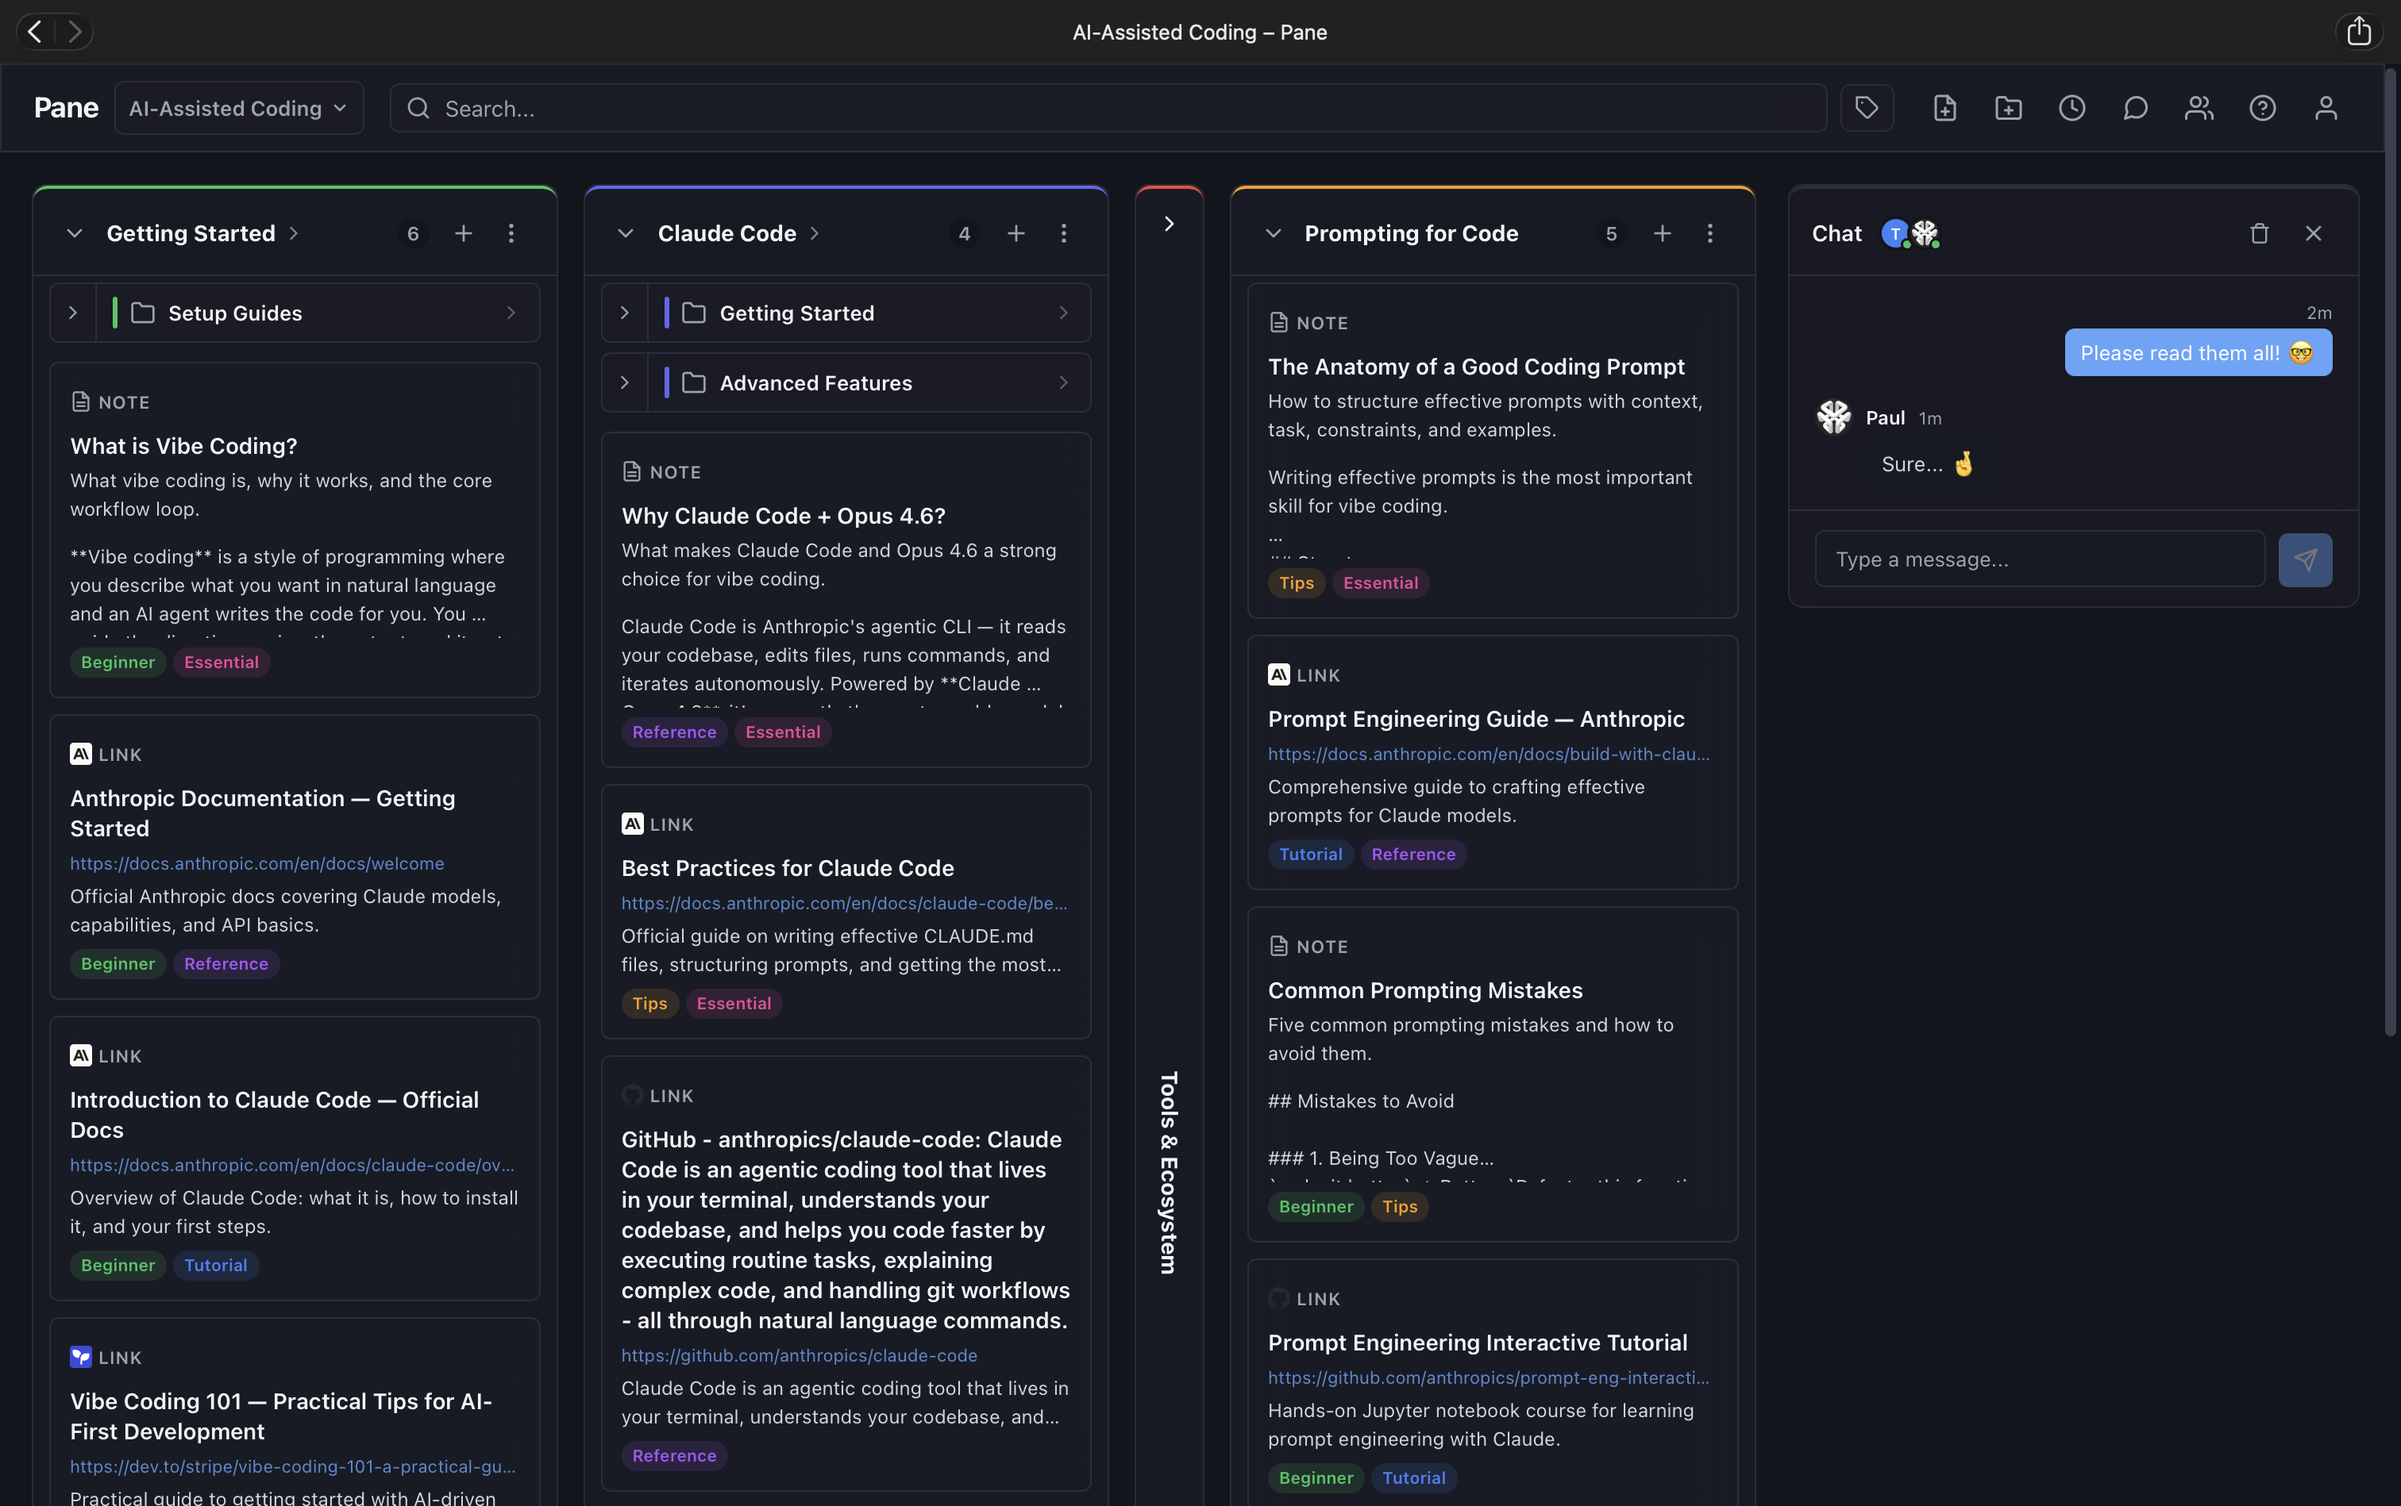
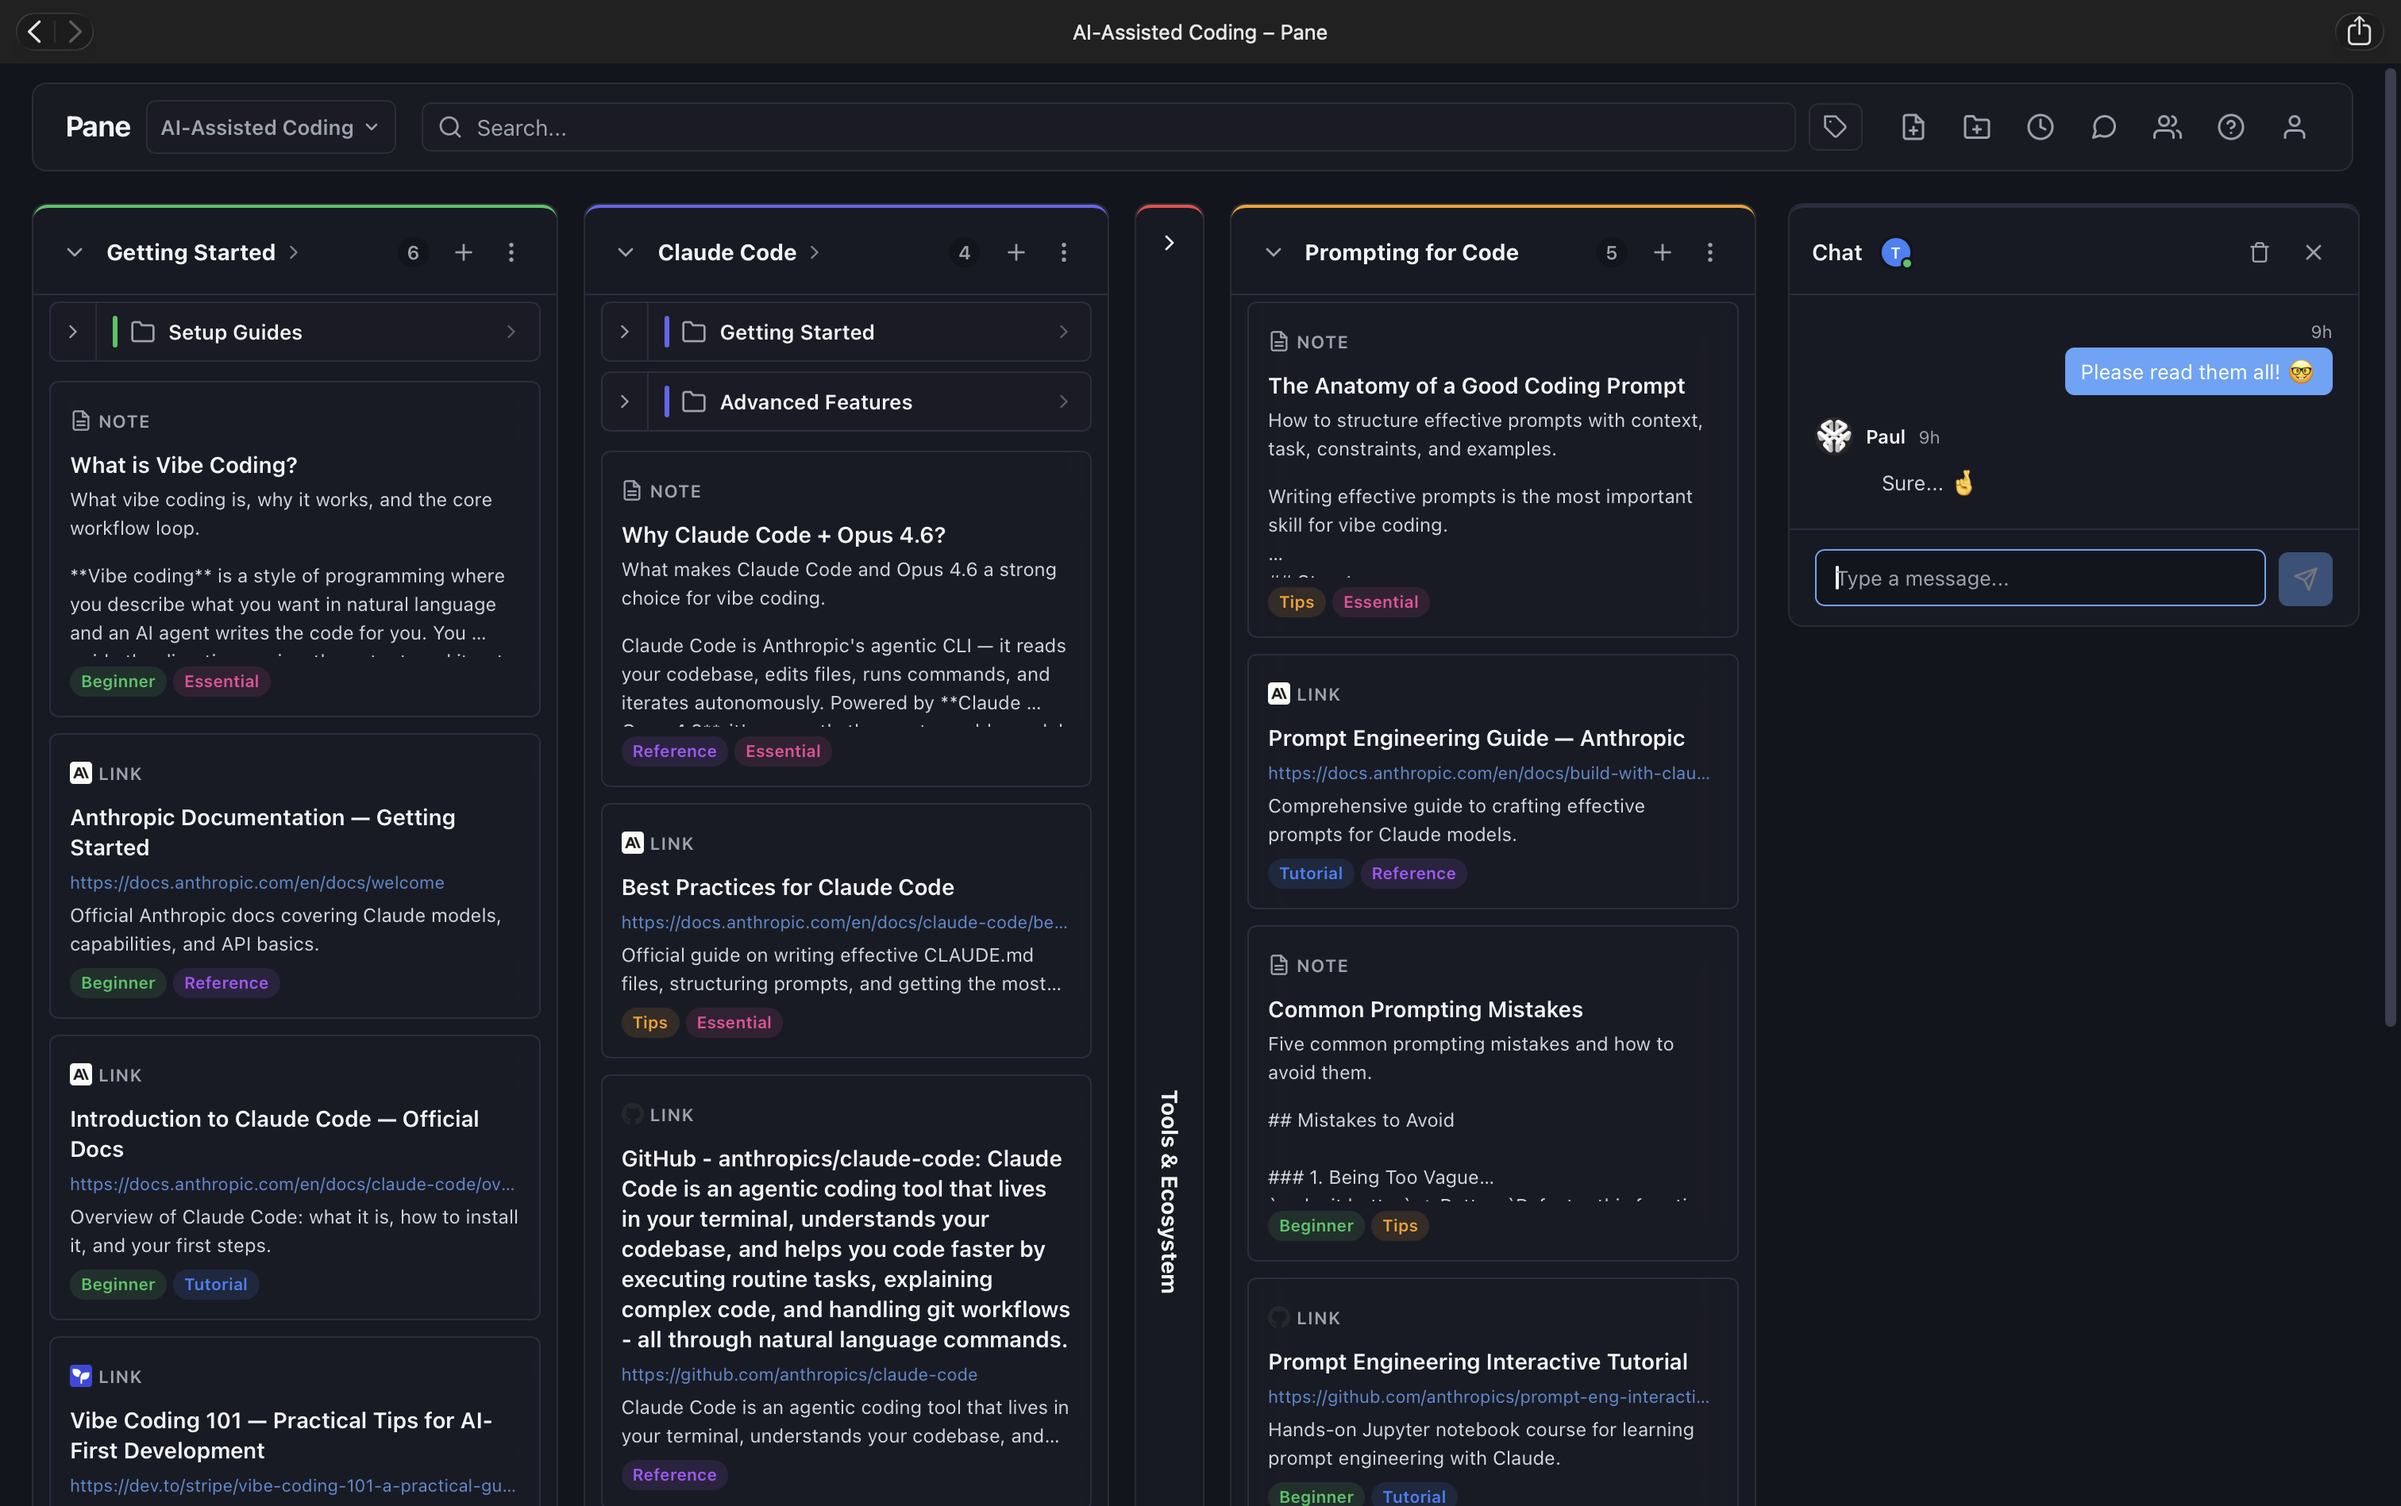
Update docs for browser notifications, missing utilities, and screenshot

diff --git a/src/lib/components/HelpPanel.svelte b/src/lib/components/HelpPanel.svelte
@@ -149,6 +149,7 @@
 						<li>Leave a shared space anytime from the dashboard</li>
 						<li><strong>Real-time chat</strong> is available in shared spaces — the chat panel appears as a column alongside the board on desktop, or as a full-screen overlay on mobile</li>
 						<li><strong>Presence indicators</strong> show which users are currently online in a shared space</li>
+						<li><strong>Browser notifications</strong> alert you to new messages and shares when the tab is in the background</li>
 					</ul>
 				{:else if activeSection === 'drag-drop'}
 					<ul>

diff --git a/CLAUDE.md b/CLAUDE.md
@@ -30,7 +30,7 @@ No test framework is configured. Use `pnpm check` to validate types before commi
 ### Data flow
 
 ```
-hooks.server.ts (migration + auth middleware + session cleanup)
+hooks.server.ts (migration + auth middleware + session cleanup + rate limiting)
   → +layout.server.ts (pass user to all pages)
   → /s/[space]/+layout.server.ts (validate space ownership or shared access)
   → /s/[space]/+page.server.ts (SSR load categories+items+tags from user DB)
@@ -102,8 +102,8 @@ Users can share spaces with others by email (read-only or read-write).
 - **Shared space URLs**: `/s/{spaceSlug}?owner={ownerId}` — the `owner` param tells the server whose DB to query
 - **Read-only enforcement**: Server returns 403 for non-GET requests on read-only shares. Client hides add/edit/delete buttons and disables DnD via `isReadonly` flag.
 - **SpaceSharingOverlay** — Accessible from Toolbar "Share" button (owner only). Share by username (with autocomplete) or email. Add/remove shares, change permissions.
-- **Real-time notifications** — SSE via `GET /api/events/user` (`$lib/server/events.ts`). `emitToUser(userId, event)` broadcasts share events. Dashboard auto-refreshes.
-- **Real-time chat** — `GET/POST/DELETE /api/chat` for space-scoped messaging. `GET /api/chat/presence` for online user tracking. Messages broadcast via SSE. 2000-char limit, 50-message pagination. Owner can clear history.
+- **Real-time notifications** — SSE via `GET /api/events/user` (`$lib/server/events.ts`). `emitToUser(userId, event)` broadcasts share events. Dashboard auto-refreshes. **Browser notifications** (`$lib/utils/notifications.ts`) show desktop alerts for chat messages and space shares when the tab is hidden (requires user permission).
+- **Real-time chat** — `GET/POST/DELETE /api/chat` for space-scoped messaging. `GET /api/chat/presence` for online user tracking. Space-scoped SSE via `GET /api/events?space={slug}&owner={id}` for real-time message delivery. 2000-char limit, 50-message pagination. Owner can clear history.
 - **Privacy** — `show_email` column on users table (default 0). Toggle in UserOverlay. `GET/PUT /api/preferences`.
 
 ### User Avatars
@@ -153,6 +153,8 @@ Documents stored at `storage/{userId}/{space-slug}/{category-slug}/{uuid}.{ext}`
 - **`$lib/utils/api.ts`** — Typed fetch wrapper (`api<T>(url, options)`) used by the board store for all mutations. Parses JSON error bodies automatically.
 - **`$lib/utils/slugify.ts`** — Wrapper around `slugify` library for URL-safe slugs.
 - **`$lib/utils/folder-drop.ts`** — HTML5 folder drag-and-drop. Uses `webkitGetAsEntry()` for recursive directory traversal. Returns `FolderStructure` with files and subfolders.
+- **`$lib/utils/webloc.ts`** — Extracts URLs from macOS `.webloc` files (XML and binary plist formats). Used during drag-and-drop to convert `.webloc` files to link items.
+- **`$lib/utils/notifications.ts`** — Browser Notification API wrapper. Shows desktop notifications for chat messages and space shares when the tab is hidden. Uses `BroadcastChannel` to deduplicate across tabs.
 
 ### Client stores
 
@@ -213,6 +215,7 @@ In-memory per-IP rate limiter in `$lib/server/rate-limit.ts`. Applied to all `/a
 - `GET /api/chat/presence?space={slug}&owner={id}` — Online users in a shared space.
 - `GET/POST/DELETE /api/avatar` — User avatar management (2 MB max, JPEG/PNG/GIF/WebP).
 - `GET /api/changelog?space={slug}` — Paginated activity log for a space.
+- `GET /api/events?space={slug}&owner={id}` — Space-scoped SSE stream for real-time chat message delivery.
 - `GET /api/legal` — Public endpoint returning legal page content (privacy policy, legal notice) if enabled.
 
 ### Seed endpoint

diff --git a/docs/architecture.md b/docs/architecture.md
@@ -123,8 +123,8 @@ Users can share spaces with other registered users by email (read-only or read-w
 - **User search** — `GET /api/users/search?q={query}` returns up to 8 matching users by display name (respects `show_email` privacy preference). Used for username autocomplete in the sharing overlay.
 - **Shared space URLs**: `/s/{spaceSlug}?owner={ownerId}` — the `owner` param tells the server whose DB to query
 - **Read-only enforcement**: Server returns 403 for non-GET requests on read-only shares. Client hides add/edit/delete buttons and disables DnD via `isReadonly` flag.
-- **Real-time notifications** — Server-sent events (SSE) via `GET /api/events/user` notify users when spaces are shared or unshared with them. The dashboard auto-refreshes on these events.
-- **Real-time chat** — `GET/POST/DELETE /api/chat` for space-scoped messaging. `GET /api/chat/presence` for online user tracking. Messages broadcast via SSE. 2000-char limit, 50-message pagination. Owner can clear chat history.
+- **Real-time notifications** — Server-sent events (SSE) via `GET /api/events/user` notify users when spaces are shared or unshared with them. The dashboard auto-refreshes on these events. **Browser notifications** (`$lib/utils/notifications.ts`) show desktop alerts for chat messages and space shares when the tab is hidden (requires user permission).
+- **Real-time chat** — `GET/POST/DELETE /api/chat` for space-scoped messaging. `GET /api/chat/presence` for online user tracking. Space-scoped SSE via `GET /api/events?space={slug}&owner={id}` for real-time message delivery. 2000-char limit, 50-message pagination. Owner can clear chat history.
 - **User avatars** — `GET/POST/DELETE /api/avatar`. Upload JPEG/PNG/GIF/WebP up to 2 MB. Stored at `storage/{userId}/avatar.{ext}`. Displayed in chat and presence indicators.
 
 ## Admin panel
@@ -194,6 +194,7 @@ Errors return `{ error: string }` with appropriate status codes (201, 400, 401, 
 | `/api/spaces/[slug]/shares/[id]` | PUT, DELETE | Update / remove a share |
 | `/api/users/search` | GET | Search users by display name (autocomplete, max 8 results) |
 | `/api/preferences` | GET, PUT | Get / update user preferences (e.g. `show_email`) |
+| `/api/events` | GET (SSE) | Space-scoped SSE stream for real-time chat message delivery |
 | `/api/events/user` | GET (SSE) | Server-sent events for real-time sharing notifications |
 | `/api/seed` | POST | Populate an empty space with sample data |
 | `/api/export` | POST | Export spaces as ZIP archive |
@@ -290,7 +291,9 @@ src/
     utils/
       api.ts              Typed fetch wrapper
       folder-drop.ts      HTML5 folder drag-and-drop with recursive traversal
+      notifications.ts    Browser Notification API (chat messages, share alerts, tab dedup)
       slugify.ts          URL-safe slug generation
+      webloc.ts           Extract URLs from macOS .webloc files (XML and binary plist)
   routes/
     +layout.svelte        Root layout (theme + palette context)
     +layout.server.ts     Pass user from locals to all pages

diff --git a/docs/user-guide.md b/docs/user-guide.md
@@ -42,6 +42,7 @@ Shared spaces have a built-in **chat** for collaborating with other users.
 - Open the **chat panel** from the toolbar when inside a shared space. On desktop it appears as a column alongside the board; on mobile it opens as a full-screen overlay.
 - **Presence indicators** show which users are currently online (green dot on their avatar).
 - Messages appear in real time via server-sent events.
+- **Browser notifications** alert you to new chat messages and space shares when your tab is in the background (grant notification permission when prompted).
 - The space owner can **clear the chat history** if needed.
 
 ## Categories
